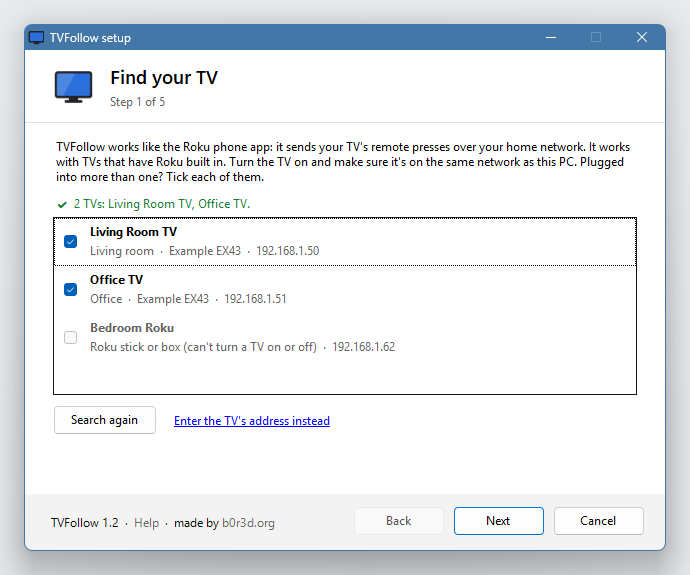
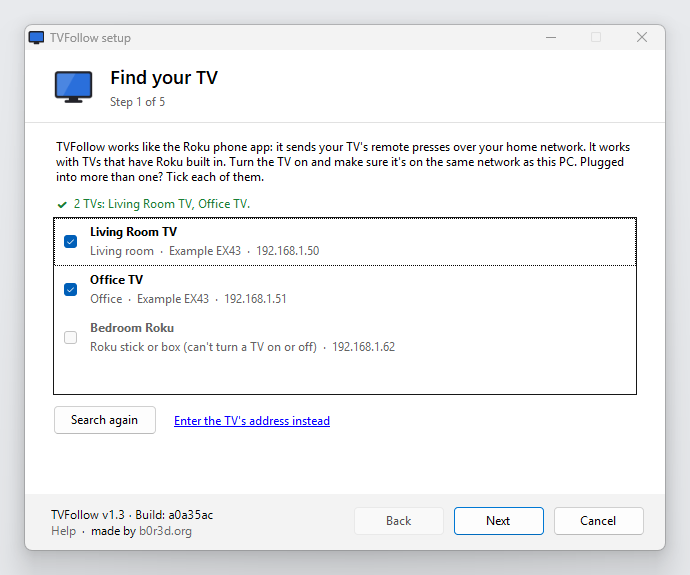
Pictures from 1.3 in the README
The README's pictures were from before 1.3: the setup steps' footers named
an older version, Settings was one page, and the tray menu with two TVs had
no Open TVFollow. They're all taken again from the release (a0a35ac), the
remotes too, and the Developer tools section gets a picture of the App on
the TV page.

The picture maker, tests/Shots.cs, now also draws TVFollow's window and
keeps the developer tools' first page apart from the plain Settings
picture. It moves each remote onto its backdrop: a remote puts itself
above the taskbar corner, where other windows on the screen got into the
picture. And it leaves windows 40 pixels from the top of the screen, so the
backdrop round each picture stays on the screen.

Changed region(s): [[0.0304, 0.0296, 0.9739, 0.0887], [0.0609, 0.887, 0.3957, 0.9461]]

diff --git a/tests/Shots.cs b/tests/Shots.cs
@@ -14,7 +14,8 @@ namespace TVFollow.Tests
     //                                             and draw every step, off screen (a quick look)
     //   TVFollowTests.exe --screenshots <folder>  the same on screen, in front of a plain backdrop,
     //                                             captured as Windows shows it (for the docs);
-    //                                             also the tray menu
+    //                                             also the tray menu, the remotes, Settings
+    //                                             and TVFollow's window
     //   TVFollowTests.exe --probe                 list the Rokus on this network and their inputs
     //                                             (only reads)
     class ShownTv : FoundTv
@@ -130,6 +131,7 @@ namespace TVFollow.Tests
                     SaveTwoTvs(folder, tv);
                 }
                 SaveDeveloperTools(folder, tv);
+                SaveMainWindow(folder, tv);
             }
             if (backdrop != null) backdrop.Close();
             try { Directory.Delete(Settings.Dir, true); } catch { }
@@ -155,6 +157,7 @@ namespace TVFollow.Tests
                 List<Controller> tvs = Controller.For(s);
                 var remote = new RemoteForm(s, tvs, tvs[0], layouts[i]);
                 remote.Show();
+                OnBackdrop(remote);
                 DateTime until = DateTime.UtcNow.AddSeconds(2);
                 while (DateTime.UtcNow < until) { Application.DoEvents(); Thread.Sleep(30); } // inputs arrive
                 WaitFor(() => true);
@@ -238,7 +241,7 @@ namespace TVFollow.Tests
                     using (var window = new SettingsForm(s, follower, tray))
                     {
                         window.StartPosition = FormStartPosition.Manual;
-                        window.Location = new Point(area.Left + 80, area.Top + 20);
+                        window.Location = new Point(area.Left + 80, area.Top + 40);
                         window.TopMost = true;
                         window.Show();
                         WaitFor(() => Text(window).Contains("1.  Living Room TV  ·  Living room") && Text(window).Contains("2.  Office TV  ·  Office"));
@@ -250,6 +253,7 @@ namespace TVFollow.Tests
 
                 var remote = new RemoteForm(s, tvs, tvs[1], RemoteForm.Classic);
                 remote.Show();
+                OnBackdrop(remote);
                 DateTime until = DateTime.UtcNow.AddSeconds(2);
                 while (DateTime.UtcNow < until) { Application.DoEvents(); Thread.Sleep(30); } // inputs arrive
                 WaitFor(() => true);
@@ -289,7 +293,8 @@ namespace TVFollow.Tests
                         Place(window, area);
                         window.Show();
                         WaitFor(() => Text(window).Contains("Living Room TV") && Text(window).Contains("showing this PC"));
-                        Save(window, folder, "10-settings");
+                        // the first page with every page listed (10-settings is the one without)
+                        Save(window, folder, "15-settings-0-tvs");
                         string[] pages =
                         {
                             SettingsForm.FollowingPage, SettingsForm.RemotePage, SettingsForm.PcPage, SettingsForm.UpdatesPage,
@@ -313,15 +318,55 @@ namespace TVFollow.Tests
             }
         }
 
+        // TVFollow's window: following, the living-room TV on and showing this PC, and a few days
+        // of presses saved
+        static void SaveMainWindow(string folder, FakeTv tv)
+        {
+            tv.ControlMode = "enabled";
+            tv.PowerMode = "PowerOn";
+            tv.App = "tvinput.hdmi1";
+            var s = new Settings { Port = tv.Port };
+            s.Tvs.Add(new TvSettings { Ip = tv.Ip, Serial = tv.Serial, Input = "hdmi1", Name = tv.Name });
+            s.PressesAllTime = 214;
+            s.PressesToday = 6;
+            s.PressesDay = DateTime.Now.ToString("yyyy-MM-dd", System.Globalization.CultureInfo.InvariantCulture);
+            int every = MainForm.RefreshMs;
+            MainForm.RefreshMs = 150;
+            try
+            {
+                var follower = new Follower(s, Controller.For(s)); // not started
+                using (var tray = new Tray(follower))
+                using (var window = new MainForm(follower, tray))
+                {
+                    Place(window, Screen.PrimaryScreen.WorkingArea);
+                    window.Show();
+                    WaitFor(() => Text(window).Contains("showing this PC") && !Text(window).Contains("Asking"));
+                    Save(window, folder, "17-main-window");
+                    window.Close();
+                }
+            }
+            finally { MainForm.RefreshMs = every; }
+        }
+
         static void Place(Form window, Rectangle area)
         {
             window.StartPosition = FormStartPosition.Manual;
             if (onScreen)
             {
                 window.TopMost = true;
-                window.Location = new Point(area.Left + 80, area.Top + 20);
+                // 40 down, so the 24 pixels of backdrop round the picture stay on the screen
+                window.Location = new Point(area.Left + 80, area.Top + 40);
             }
             else window.Location = new Point(-20000, -20000);
+        }
+
+        // The remote puts itself above the taskbar corner of the screen the pointer is on, where
+        // the backdrop may not reach and other windows would get into the picture: move it onto
+        // the backdrop. Moved, it stays put when its inputs arrive.
+        static void OnBackdrop(Form remote)
+        {
+            Rectangle area = Screen.PrimaryScreen.WorkingArea;
+            remote.Location = new Point(area.Left + 80, area.Top + 40);
         }
 
         public static int Probe()

diff --git a/README.md b/README.md
@@ -165,7 +165,7 @@ Right-click the icon → **Settings…**, or **TVFollow → Settings…** in TVF
 Pick a page from the list down the left (the arrow keys work too). Changes apply straight
 away.
 
-![The Settings window](docs/images/10-settings.png)
+![The Settings window on its TV page, with its pages listed down the left](docs/images/10-settings.png)
 
 - **TV:** which TV and whether it's answering, and the input your PC is on (for each
   TV, numbered, when there are several). **Add or change TVs…** runs setup again: tick a
@@ -233,6 +233,8 @@ If the TV asks, first sign up for Roku's free developer program at
 [developer.roku.com](https://developer.roku.com), with the Roku account the TV uses. The
 developer tools say when developer mode is on. To turn it off, press the same code and
 choose **Disable installer and restart**.
+
+![The App on the TV page: b0r3d TV 0.75 on the TV, the three ways to push an app, and Open on the TV, Remove, Screenshot and App log](docs/images/15-settings-6-app.png)
 
 **Push an app** (on **App on the TV**):
 
